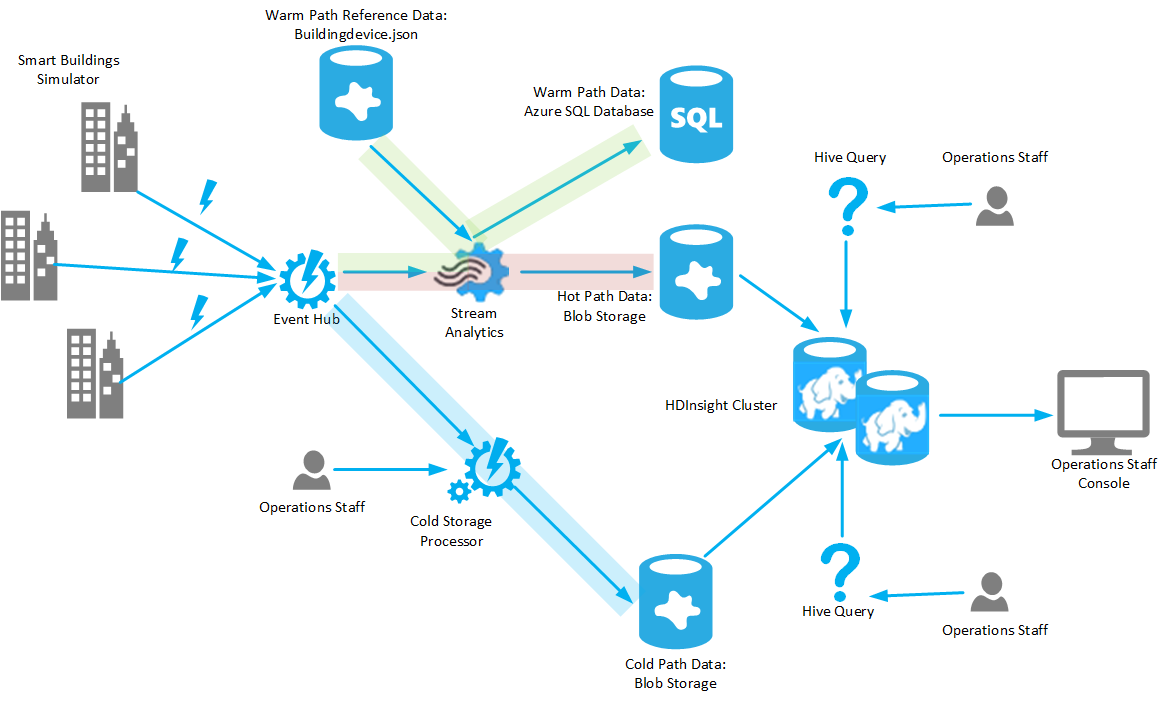
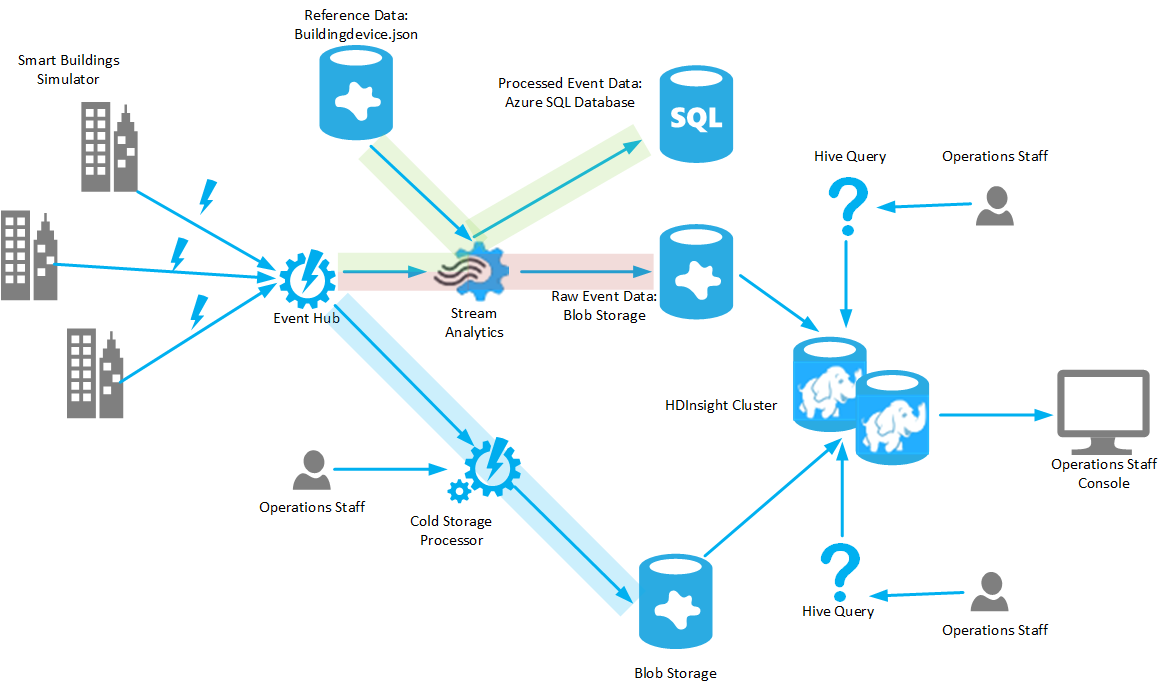
Updates to remove references to hot, warm, and cold paths

diff --git a/docs/overview-of-architecture-and-components.md b/docs/overview-of-architecture-and-components.md
@@ -10,11 +10,11 @@ The sample solution code (available [here](https://github.com/mspnp/iot-journey/
 
 The data for all devices is directed towards a Windows Azure Event Hub. From here, the data can take several paths:
 
-1. The data can be used as input to a Azure Stream Analytics job which simply passes the data through to Blob storage, recording it in JSON format. This is the *hot path* that provides the least friction for the raw data, allowing it to be stored very quickly for later analysis. Operations staff are provided with a Hive query that they can run on an HDInsight cluster to take this data and generate a report listing each device and the number of events it generated.
+1. The data can be used as input to a Azure Stream Analytics job which simply passes the data through to Blob storage, recording it in JSON format. This path provides the least friction for the raw data, allowing it to be stored very quickly for later analysis. Operations staff are provided with a Hive query that they can run on an HDInsight cluster to take this data and generate a report listing each device and the number of events it generated.
 
-2. The Stream Analytics job can also combine the data with reference information that maps device IDs to buildings. The reference information is held in Bloc storage. The combined data is then processed to generate a rolling average of the temperatures recorded by all devices in a building during the last 5 seconds. The results are stored in an Azure SQL Database. This is the *warm path*; it adds value to the raw data by merging and summarizing it. Operations staff can query this summary data in the database to view the average temperature in each building.
+2. The Stream Analytics job can also combine the data with reference information that maps device IDs to buildings. The reference information is held in Bloc storage. The combined data is then processed to generate a rolling average of the temperatures recorded by all devices in a building during the last 5 seconds. The results are stored in an Azure SQL Database. This path adds value to the raw data by merging and summarizing it. Operations staff can query this summary data in the database to view the average temperature in each building.
 
-3. The data can queried by using the Cold Storage Processor. This is a separate application that can be run by operations staff. The Cold Storage Processor listens for temperature events as they arrive at the Event Hub (the Event Hub can also store a history of events for a configurable period, and these events will be passed to the Cold Storage Processor if it hasn't been run recently.) The Cold Storage processor copies the data for each temperature to Blob storage from where it can be subjected to detailed analysis and ad-hoc processing. This is the *cold path*. Another Hive query is available to enable operations staff to summarize this data and generate a report.
+3. The data can queried by using the Cold Storage Processor. This is a separate application that can be run by operations staff. The Cold Storage Processor listens for temperature events as they arrive at the Event Hub (the Event Hub can also store a history of events for a configurable period, and these events will be passed to the Cold Storage Processor if it hasn't been run recently.) The Cold Storage processor copies the data for each temperature to Blob storage from where it can be subjected to detailed analysis and ad-hoc processing. Another Hive query is available to enable operations staff to summarize this data and generate a report.
 
 The following diagram illustrates the relationships between the components that constitute the sample solution:
 
